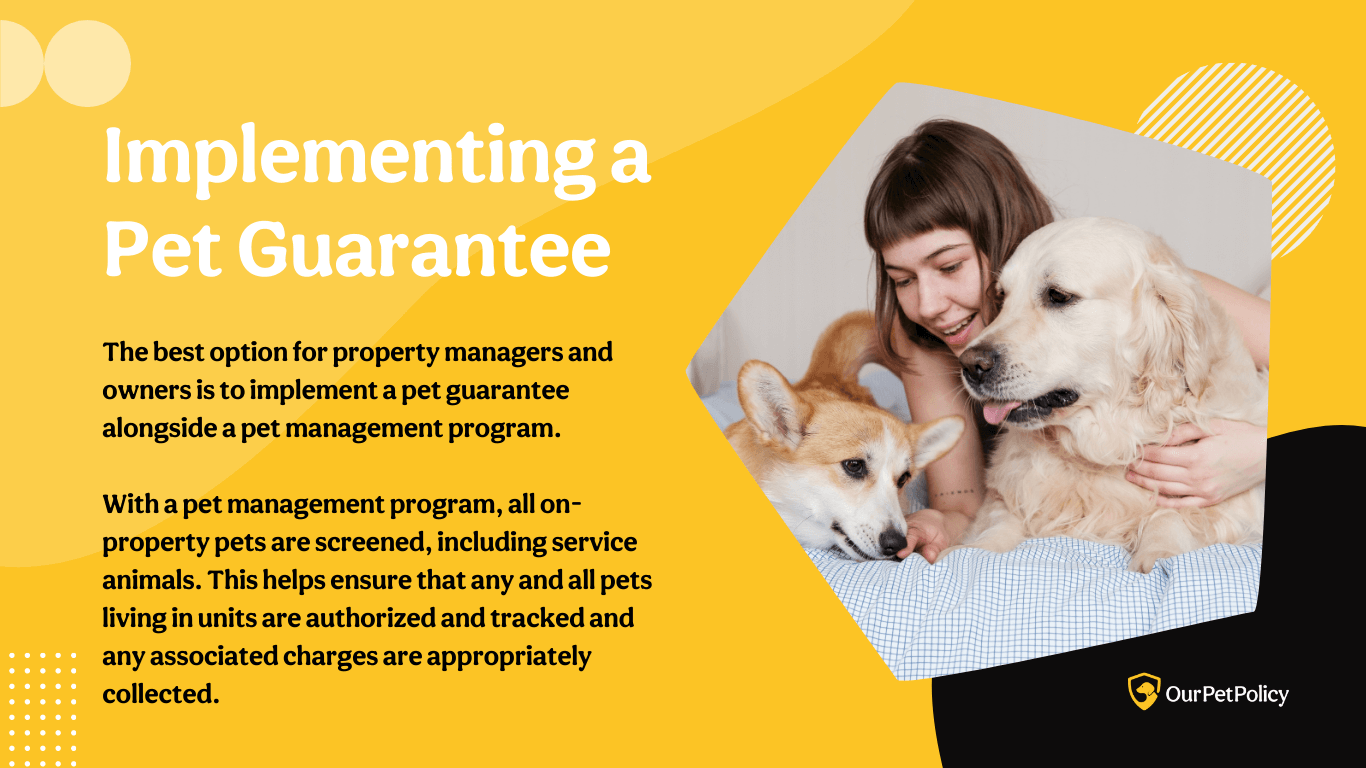
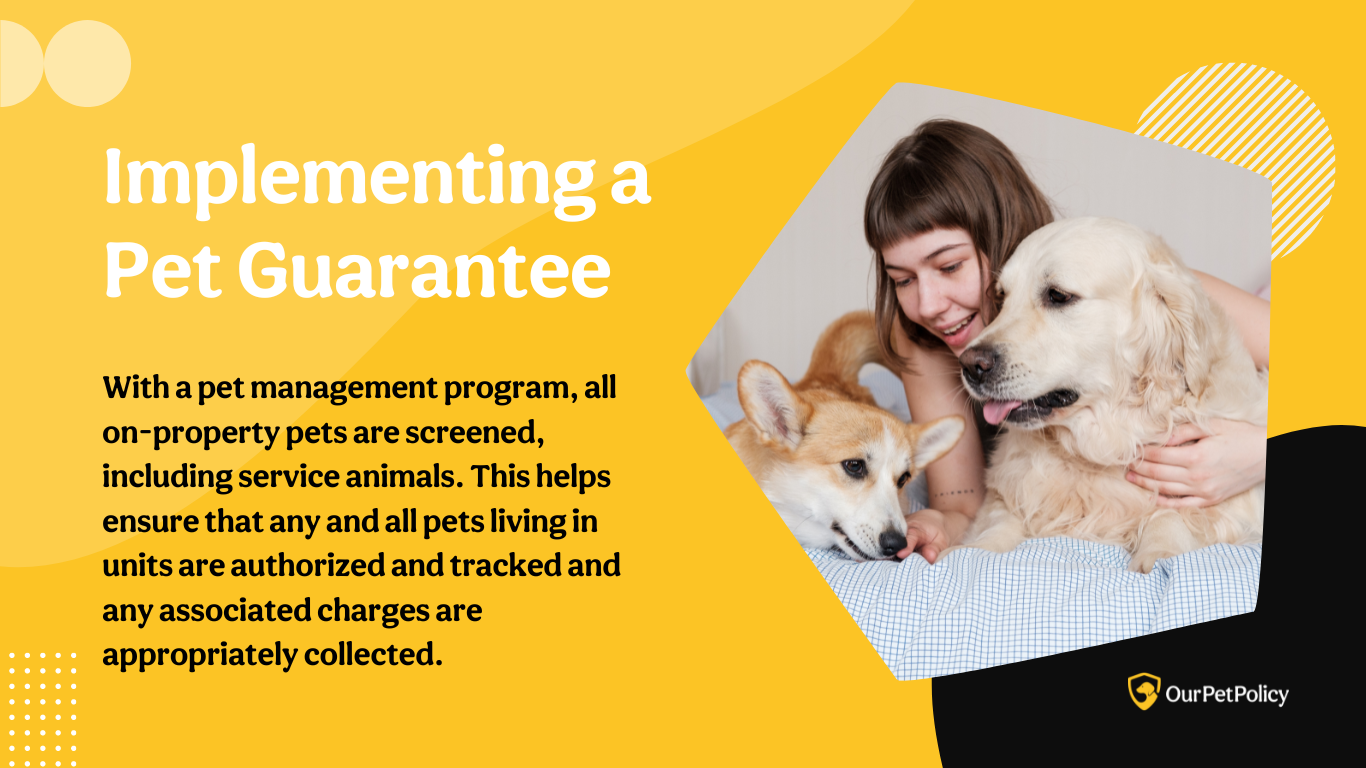
Update Blog “resources-boost-income-and-cover-damage-expenses-with-a-pet-guarantee”

diff --git a/src/markdown/blog/resources-boost-income-and-cover-damage-expenses-with-a-pet-guarantee.md b/src/markdown/blog/resources-boost-income-and-cover-damage-expenses-with-a-pet-guarantee.md
@@ -28,11 +28,11 @@ promoSection:
 ---
 ![Boost income and cover damage expenses with a pet guarantee](/assets/manage_rental_property_with_pet_guarantee.png "manage_rental_property_with_pet_guarantee")
 
-Among all US households, approximately 70% currently own at least one pet. That number is even higher among younger generations, who are more likely to be renters than their parents or grandparents. Having a strict [“no pets” policy](https://landlordtech.com/resources/landlord-Q&A-should-you-move-to-a-pet-friendly-policy) only serves to limit your tenant pool, reduce potential revenue, and expose you to fraudulent service animal applications. 
+> Among all US households, approximately 70% currently own at least one pet. That number is even higher among younger generations, who are more likely to be renters than their parents or grandparents. 
+
+Having a strict [“no pets” policy](https://landlordtech.com/resources/landlord-Q&A-should-you-move-to-a-pet-friendly-policy) only serves to limit your tenant pool, reduce potential revenue, and expose you to fraudulent service animal applications. 
 
 For most owners and property managers, the primary concern with a pet policy is liability from damages. Costs associated with on-property repairs due to pets can be high, and security deposits may not always cover all those expenses. That’s where a pet guarantee comes in. This article provides an overview of the concept of a pet guarantee and discusses how it helps owners and property managers mitigate expenses and fill vacancies.
-
-![Majority of the US households have at least one pet](/assets/increase_tenant_pool_with_pet_friendly_property.png "increase_tenant_pool_with_pet_friendly_property")
 
 **What is a Pet Guarantee?**
 
